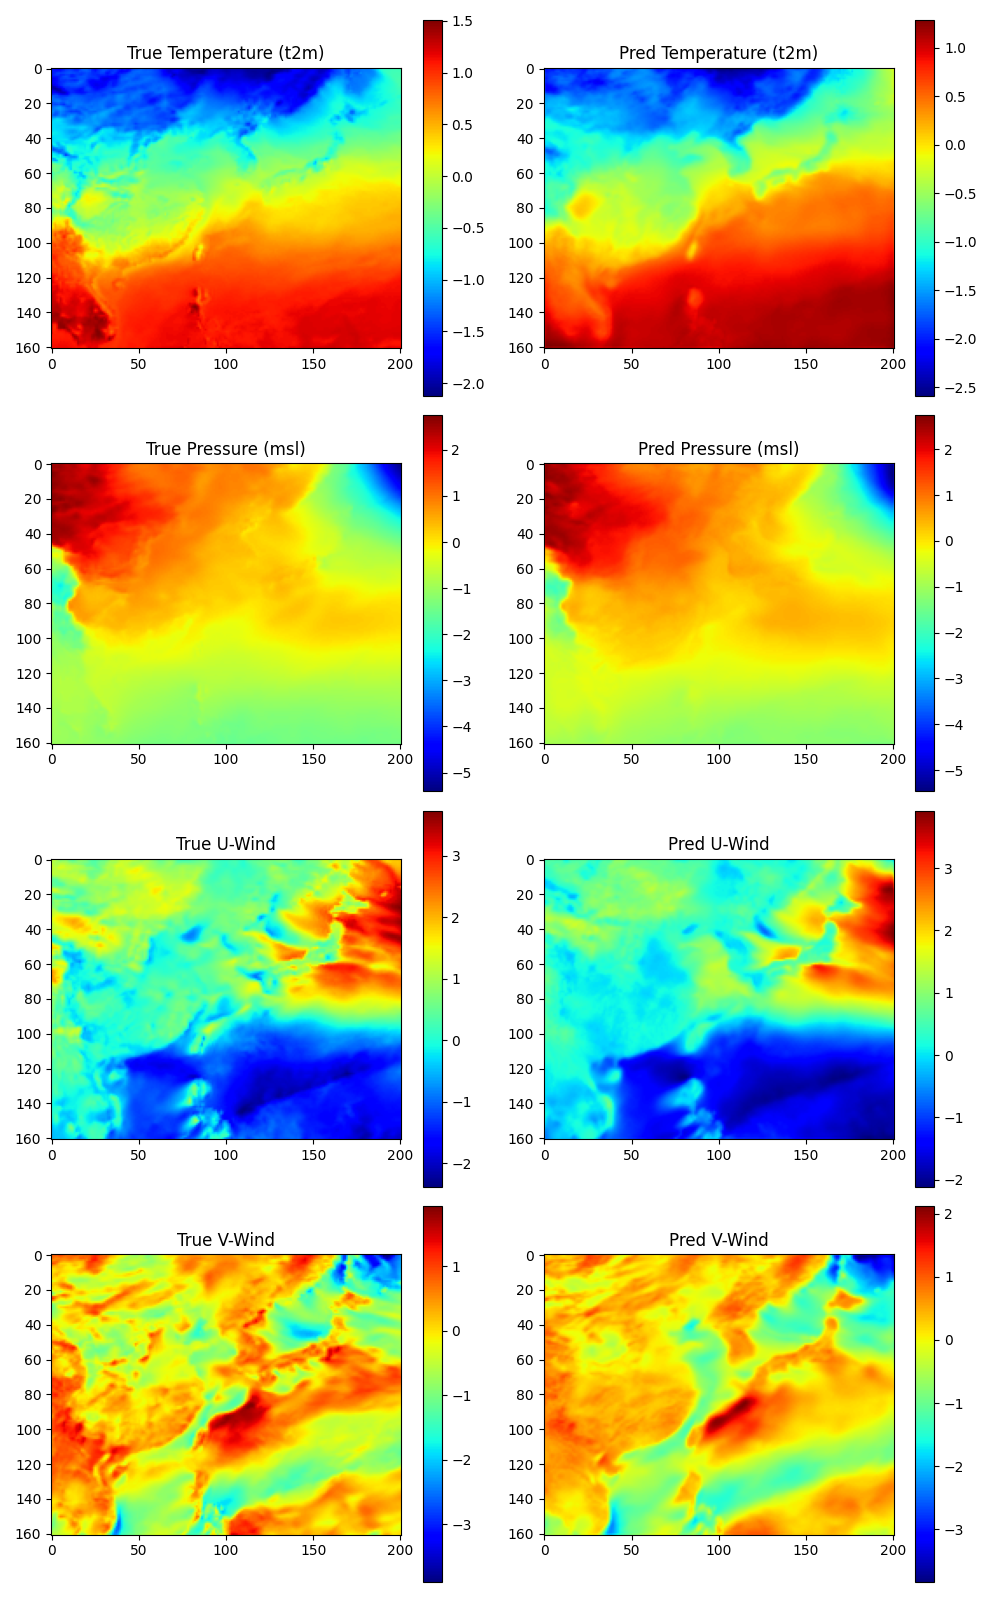
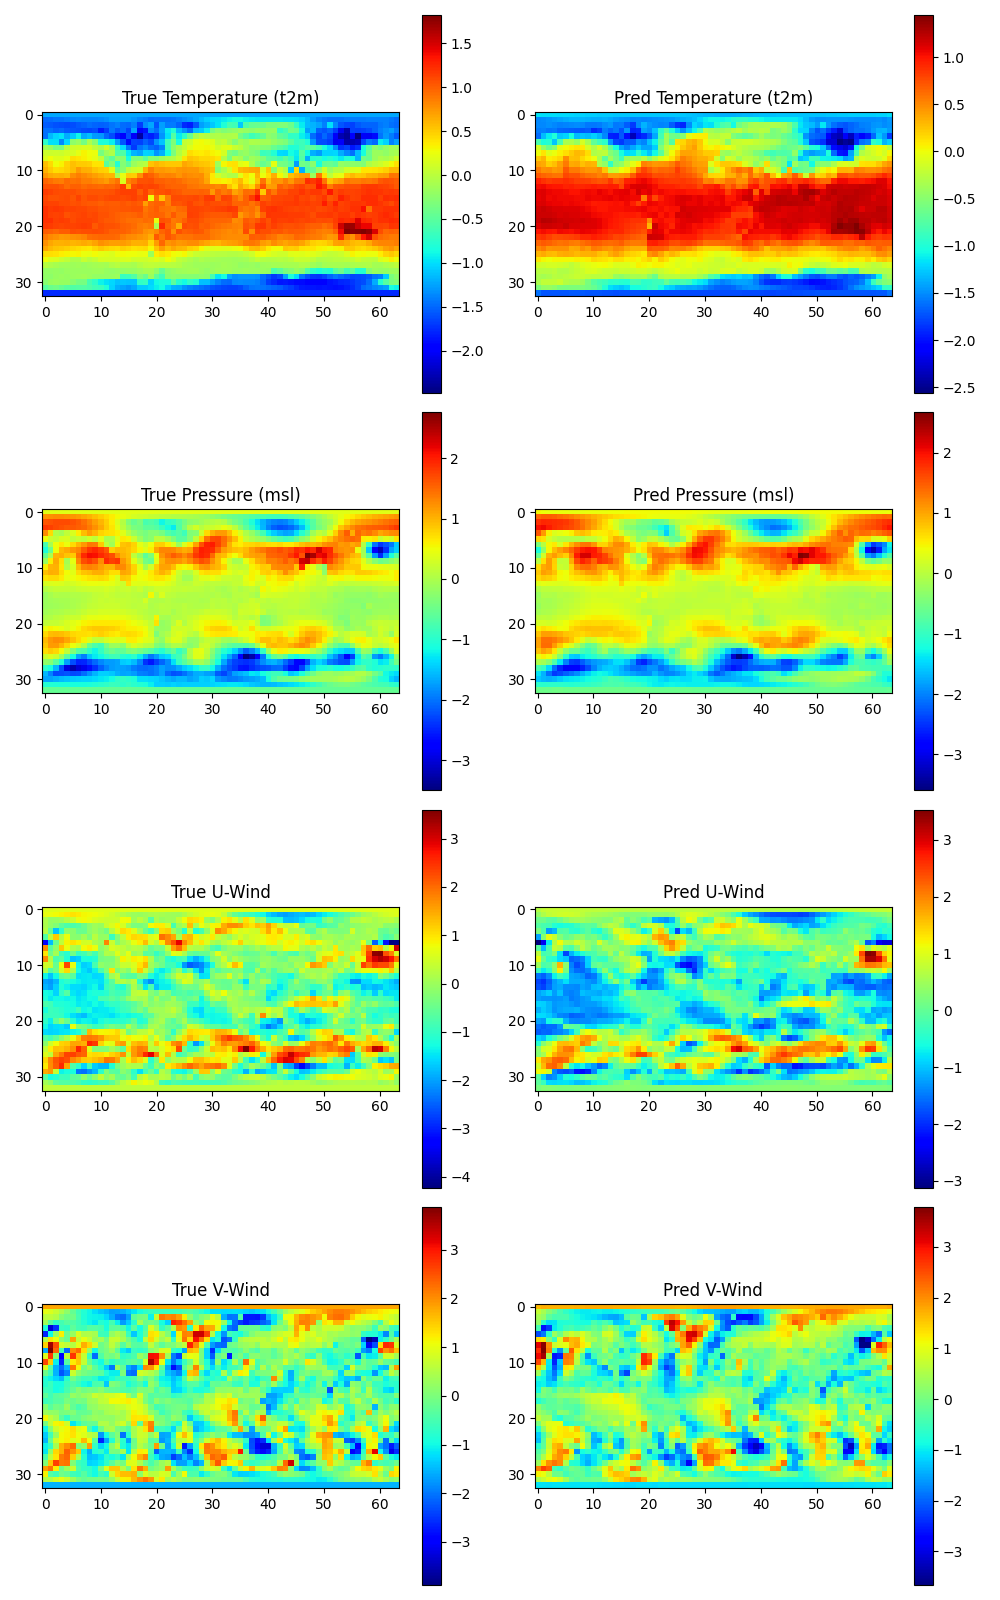
feat: 成功導入全球迷你資料與 SFNO 球面調和架構，並新增 3D 球體預測視覺化

diff --git a/fourier_2d.py b/fourier_2d.py
@@ -2,7 +2,7 @@
 @author: Zongyi Li
 This file is the Fourier Neural Operator for 2D problem such as the Darcy Flow discussed in Section 5.2 in the [paper](https://arxiv.org/pdf/2010.08895.pdf).
 """
-
+import torch_harmonics as th
 import numpy as np
 import torch
 import torch.nn as nn
@@ -42,6 +42,42 @@ class LocalUNetBlock2d(nn.Module):
         # 2D 上採樣，確保尺寸與輸入一致
         x_up = F.interpolate(x_conv, size=(res.shape[2], res.shape[3]), mode='bilinear', align_corners=True)
         return self.final(x_up) + res
+################################################################
+# SphericalConv2d
+################################################################
+class SphericalConv2d(nn.Module):
+    def __init__(self, in_channels, out_channels, modes, nlat=33, nlon=64):
+        super(SphericalConv2d, self).__init__()
+        """
+        Spherical Harmonic Transform (SHT) Layer
+        專為地球球面設計，取代傳統的 2D FFT。
+        """
+        self.in_channels = in_channels
+        self.out_channels = out_channels
+        self.modes = modes # 球面調和函數的最高階數 (lmax, mmax)
+        
+        # 1. 宣告正向與反向的球面調和轉換 (SHT / ISHT)
+        # ERA5 是標準的經緯度網格，所以我們使用 "equiangular"
+        self.sht = th.RealSHT(nlat, nlon, lmax=modes, mmax=modes, grid="equiangular")
+        self.isht = th.InverseRealSHT(nlat, nlon, lmax=modes, mmax=modes, grid="equiangular")
+        
+        # 2. 頻域上的可學習權重 (Complex Weights)
+        self.scale = (1 / (in_channels * out_channels))
+        self.weights = nn.Parameter(self.scale * torch.rand(in_channels, out_channels, modes, modes, dtype=torch.cfloat))
+
+    def forward(self, x):
+        # 正向 SHT：將空間氣象場轉為「球面頻譜」
+        # x shape: (batch, in_channels, nlat, nlon)
+        x_sht = self.sht(x) 
+        
+        # 在頻譜空間中進行矩陣相乘 (過濾與特徵提取)
+        # out shape: (batch, out_channels, lmax, mmax)
+        out_sht = torch.einsum("b i l m, i o l m -> b o l m", x_sht, self.weights)
+        
+        # 反向 ISHT：將處理好的頻譜轉回「空間氣象場」
+        x = self.isht(out_sht)
+        return x
+    
 
 ################################################################
 # fourier layer
@@ -168,14 +204,15 @@ class FNO2d(nn.Module):
         self.modes1 = modes1
         self.modes2 = modes2
         self.width = width
-        self.padding = 9 # pad the domain if input is non-periodic
+        # self.padding = 9 # pad the domain if input is non-periodic
         self.fc0 = nn.Linear(6, self.width) # input channel is 6: (a(x, y), x, y, x^2, y^2, xy)
         self.local_type = local_type # 儲存實驗開關
 
-        self.conv0 = SpectralConv2d(self.width, self.width, self.modes1, self.modes2)
-        self.conv1 = SpectralConv2d(self.width, self.width, self.modes1, self.modes2)
-        self.conv2 = SpectralConv2d(self.width, self.width, self.modes1, self.modes2)
-        self.conv3 = SpectralConv2d(self.width, self.width, self.modes1, self.modes2)
+        # 換上全新的球面調和引擎！注意參數只傳入 modes1 即可
+        self.conv0 = SphericalConv2d(self.width, self.width, self.modes1)
+        self.conv1 = SphericalConv2d(self.width, self.width, self.modes1)
+        self.conv2 = SphericalConv2d(self.width, self.width, self.modes1)
+        self.conv3 = SphericalConv2d(self.width, self.width, self.modes1)
         self.w0 = self._get_local_path()
         self.w1 = self._get_local_path()
         self.w2 = self._get_local_path()
@@ -202,7 +239,7 @@ class FNO2d(nn.Module):
         x = torch.cat((x, grid), dim=-1)
         x = self.fc0(x)
         x = x.permute(0, 3, 1, 2)
-        x = F.pad(x, [0,self.padding, 0,self.padding])
+        # x = F.pad(x, [0,self.padding, 0,self.padding])
 
         x1 = self.conv0(x)
         x2 = self.w0(x)
@@ -223,7 +260,7 @@ class FNO2d(nn.Module):
         x2 = self.w3(x)
         x = x1 + x2
 
-        x = x[..., :-self.padding, :-self.padding]
+        # x = x[..., :-self.padding, :-self.padding]
         x = x.permute(0, 2, 3, 1)
         x = self.fc1(x)
         x = F.gelu(x)
@@ -244,11 +281,11 @@ class FNO2d(nn.Module):
 modes = 16    # 從 8 提升到 16 (因為空間變大了，最高其實可以設到 161//2=80，但 16 是一個兼具速度與精度的甜蜜點)
 width = 32
 batch_size = 4
-epochs = 50
+epochs = 20
 
 print("正在讀取 ERA5 氣象資料...")
 # 請確保你的檔案名稱與路徑正確，如果不同請修改這裡
-ds = xr.open_dataset('data/east_asia_era5_202301.nc', engine='h5netcdf')
+ds = xr.open_dataset('data/global_era5_mini_202301.nc', engine='h5netcdf') # 改成這顆迷你地球
 
 # 提取資料並轉換成 PyTorch Tensor
 t2m = torch.tensor(ds['t2m'].values)
@@ -375,3 +412,38 @@ for i in range(4):
 plt.tight_layout()
 plt.savefig('weather_prediction.png')
 print("繪圖完成！請查看專案資料夾下的 weather_prediction.png")
+
+print("正在繪製 3D 球體預測圖...")
+
+# 取出模型預測的溫度資料 (第 0 個通道)
+# 確保資料形狀是 (33, 64)
+temp_pred = prediction[:, :, 0]
+
+# 1. 建立球面網格 (經度 0~2pi, 緯度 0~pi)
+lon = np.linspace(0, 2 * np.pi, 64)
+lat = np.linspace(0, np.pi, 33)
+lon, lat = np.meshgrid(lon, lat)
+
+# 2. 將球面座標 (lat, lon) 轉換為 3D 笛卡兒座標 (X, Y, Z)
+X = np.sin(lat) * np.cos(lon)
+Y = np.sin(lat) * np.sin(lon)
+Z = np.cos(lat)
+
+# 3. 將溫度資料標準化到 0~1，以便對應顏色表 (Colormap)
+temp_norm = (temp_pred - temp_pred.min()) / (temp_pred.max() - temp_pred.min() + 1e-6)
+# 生成顏色矩陣
+colors = plt.cm.jet(temp_norm)
+
+# 4. 繪製 3D 球體
+fig = plt.figure(figsize=(10, 10))
+ax = fig.add_subplot(111, projection='3d')
+
+# 關閉座標軸背景，讓地球懸浮在太空中
+ax.axis('off')
+
+# 繪製曲面 (plot_surface)
+surf = ax.plot_surface(X, Y, Z, facecolors=colors, rstride=1, cstride=1, antialiased=True, shade=False)
+
+ax.set_title("Global Temperature Prediction (SFNO)", fontsize=16, pad=20)
+plt.savefig('weather_prediction_3d.png', dpi=300, bbox_inches='tight')
+print("3D 繪圖完成！請查看 weather_prediction_3d.png")

diff --git a/download_global_mini.py b/download_global_mini.py
@@ -1,0 +1,34 @@
+import cdsapi
+
+c = cdsapi.Client()
+
+print("開始下載全球迷你版 ERA5 資料...")
+
+c.retrieve(
+    'reanalysis-era5-single-levels',
+    {
+        'product_type': 'reanalysis',
+        'format': 'netcdf',
+        'variable': [
+            '10m_u_component_of_wind', '10m_v_component_of_wind', 
+            '2m_temperature', 'mean_sea_level_pressure',
+        ],
+        'year': '2023',
+        'month': '01',
+        'day': [
+            '01', '02', '03', '04', '05', '06', '07', '08', '09', '10', 
+            '11', '12', '13', '14', '15', '16', '17', '18', '19', '20', 
+            '21', '22', '23', '24', '25', '26', '27', '28', '29', '30', '31',
+        ],
+        'time': [
+            '00:00', '06:00', '12:00', '18:00',
+        ],
+        # 關鍵 1：全球範圍
+        'area': [90, -180, -90, 180],
+        
+        # 關鍵 2：網頁上找不到的魔法參數！將解析度大幅降低
+        'grid': ['5.625', '5.625'], 
+    },
+    'data/global_era5_mini_202301.nc')  # 儲存路徑
+
+print("下載完成！")